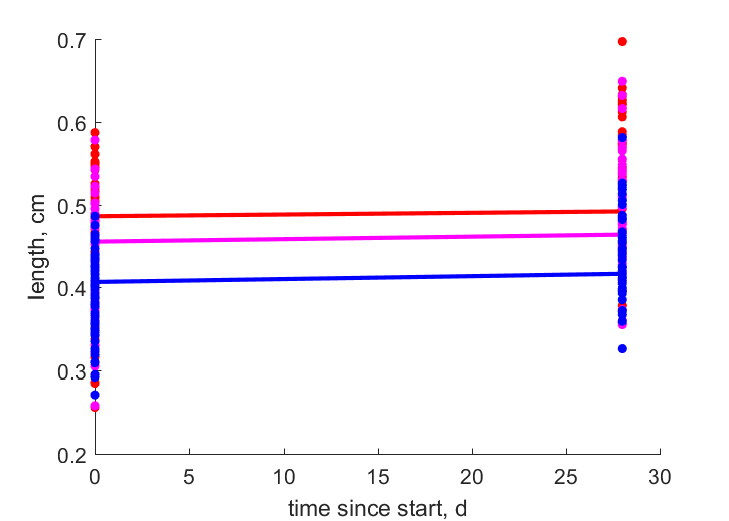
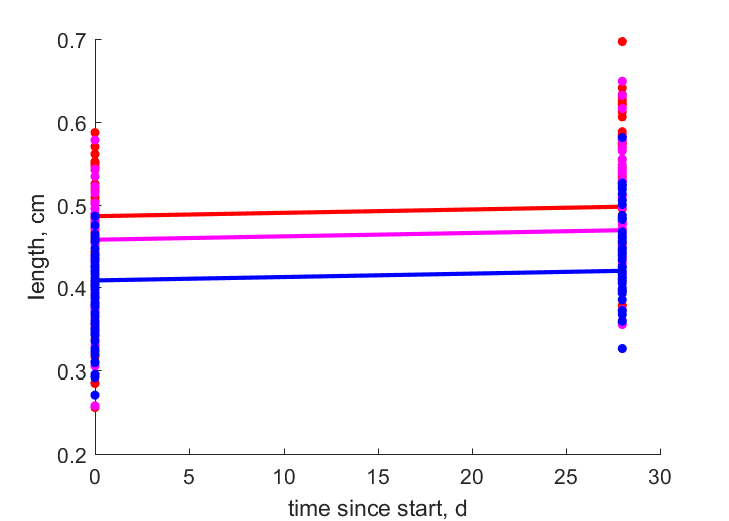
data

Changed region(s): [[0.1509, 0.3685, 0.845, 0.4914], [0.1207, 0.4914, 0.845, 0.5528]]

diff --git a/DEB_Matlab/Gammarus_pulex_res.html b/DEB_Matlab/Gammarus_pulex_res.html
@@ -44,7 +44,7 @@
   </div>
 
   <div class="par">
-  <h4>COMPLETE = 2.5; MRE =    0.321; SMAE =    0.488; SMSE =    0.490 </h4>
+  <h4>COMPLETE = 2.5; MRE =    0.275; SMAE =    0.432; SMSE =    0.413 </h4>
   </div>
 
   <p class="clear"></p>
@@ -53,41 +53,41 @@
   <h2>Data & predictions</h2>
   <TABLE id="prd">
     <TR  class="head"><TH>data</TH> <TH>prd</TH> <TH>RE</TH>  <TH>symbol</TH> <TH>units</TH> <TH>description</TH> </TR>
-    <TR><TD>33.6</TD> <TD>33.53</TD> <TD>0.001968</TD> <TD>ab</TD> <TD>d</TD> <TD>age at birth</TD></TR>
-    <TR><TD>180</TD> <TD>164.8</TD> <TD>0.08454</TD> <TD>tp</TD> <TD>d</TD> <TD>time since birth at puberty</TD></TR>
-    <TR><TD>470</TD> <TD>476.1</TD> <TD>0.01307</TD> <TD>am</TD> <TD>d</TD> <TD>life span</TD></TR>
-    <TR><TD>0.2</TD> <TD>0.1981</TD> <TD>0.009685</TD> <TD>Lb</TD> <TD>cm</TD> <TD>total length at birth</TD></TR>
-    <TR><TD>0.8</TD> <TD>0.6889</TD> <TD>0.1389</TD> <TD>Lp</TD> <TD>cm</TD> <TD>total length at puberty</TD></TR>
-    <TR><TD>1.146</TD> <TD>1.443</TD> <TD>0.2591</TD> <TD>Li</TD> <TD>cm</TD> <TD>ultimate total length</TD></TR>
-    <TR><TD>0.135</TD> <TD>0.1292</TD> <TD>0.04261</TD> <TD>Wwb</TD> <TD>mg</TD> <TD>wet weight at birth</TD></TR>
-    <TR><TD>  5</TD> <TD>5.438</TD> <TD>0.08752</TD> <TD>Wwp</TD> <TD>mg</TD> <TD>wet weight at puberty</TD></TR>
-    <TR><TD> 51</TD> <TD>49.97</TD> <TD>0.0201</TD> <TD>Wwi</TD> <TD>mg</TD> <TD>ultimate wet weight</TD></TR>
-    <TR><TD>0.7333</TD> <TD>0.7049</TD> <TD>0.03876</TD> <TD>Ri</TD> <TD>#/d</TD> <TD>maximum reprod rate</TD></TR>
-    <TR><TD colspan="2">see figure</TD> <TD>0.1653</TD> <TD>tL</TD> <TD colspan="2">time since birth <font color="blue"><i>vs.</i></font> length</TD>
-    <TR><TD colspan="2">see figure</TD> <TD>0.1003</TD> <TD>tL2</TD> <TD colspan="2">time since start <font color="blue"><i>vs.</i></font> length</TD>
-    <TR><TD colspan="2">see figure</TD> <TD>0.1045</TD> <TD>tL3</TD> <TD colspan="2">time since start <font color="blue"><i>vs.</i></font> length</TD>
-    <TR><TD colspan="2">see figure</TD> <TD>0.1189</TD> <TD>tL4</TD> <TD colspan="2">time since start <font color="blue"><i>vs.</i></font> length</TD>
-    <TR><TD colspan="2">see figure</TD> <TD>0.1093</TD> <TD>tL5</TD> <TD colspan="2">time since start <font color="blue"><i>vs.</i></font> length</TD>
-    <TR><TD colspan="2">see figure</TD> <TD>0.1243</TD> <TD>tL6</TD> <TD colspan="2">time since start <font color="blue"><i>vs.</i></font> length</TD>
-    <TR><TD colspan="2">see figure</TD> <TD>0.1463</TD> <TD>tL7</TD> <TD colspan="2">time since start <font color="blue"><i>vs.</i></font> length</TD>
-    <TR><TD colspan="2">see figure</TD> <TD>0.1001</TD> <TD>tW_f</TD> <TD colspan="2">time since birth <font color="blue"><i>vs.</i></font> wet weight</TD>
-    <TR><TD colspan="2">see figure</TD> <TD>0.8868</TD> <TD>tW_m</TD> <TD colspan="2">time since birth <font color="blue"><i>vs.</i></font> wet weight</TD>
-    <TR><TD colspan="2">see figure</TD> <TD>0.04491</TD> <TD>Tab</TD> <TD colspan="2">temperature <font color="blue"><i>vs.</i></font> age at birth</TD>
-    <TR><TD colspan="2">see figure</TD> <TD>0.1881</TD> <TD>Tab2</TD> <TD colspan="2">temperature <font color="blue"><i>vs.</i></font> age at birth</TD>
-    <TR><TD colspan="2">see figure</TD> <TD>0.1697</TD> <TD>Ttp</TD> <TD colspan="2">temperature <font color="blue"><i>vs.</i></font> time since birth at puberty</TD>
-    <TR><TD colspan="2">see figure</TD> <TD>0.917</TD> <TD>tL8</TD> <TD colspan="2">time since start <font color="blue"><i>vs.</i></font> length</TD>
-    <TR><TD colspan="2">see figure</TD> <TD>0.9234</TD> <TD>tL9</TD> <TD colspan="2">time since start <font color="blue"><i>vs.</i></font> length</TD>
-    <TR><TD colspan="2">see figure</TD> <TD>0.924</TD> <TD>tL10</TD> <TD colspan="2">time since start <font color="blue"><i>vs.</i></font> length</TD>
-    <TR><TD colspan="2">see figure</TD> <TD>0.8885</TD> <TD>tL11</TD> <TD colspan="2">time since start <font color="blue"><i>vs.</i></font> length</TD>
-    <TR><TD colspan="2">see figure</TD> <TD>0.907</TD> <TD>tL12</TD> <TD colspan="2">time since start <font color="blue"><i>vs.</i></font> length</TD>
-    <TR><TD colspan="2">see figure</TD> <TD>0.8897</TD> <TD>tL13</TD> <TD colspan="2">time since start <font color="blue"><i>vs.</i></font> length</TD>
-    <TR><TD colspan="2">see figure</TD> <TD>0.892</TD> <TD>tL14</TD> <TD colspan="2">time since start <font color="blue"><i>vs.</i></font> length</TD>
-    <TR class="psd"><TD>0.02</TD> <TD>0.01776</TD> <TD>0.112</TD> <TD>psd.v</TD> <TD>cm/d</TD> <TD>energy conductance</TD></TR>
-    <TR class="psd"><TD> 18</TD> <TD>323.4</TD> <TD>16.97</TD> <TD>psd.p_M</TD> <TD>J/d.cm^3</TD> <TD>vol-spec som maint</TD></TR>
+    <TR><TD>33.6</TD> <TD>34.12</TD> <TD>0.01546</TD> <TD>ab</TD> <TD>d</TD> <TD>age at birth</TD></TR>
+    <TR><TD>180</TD> <TD>168.9</TD> <TD>0.06141</TD> <TD>tp</TD> <TD>d</TD> <TD>time since birth at puberty</TD></TR>
+    <TR><TD>470</TD> <TD>479.4</TD> <TD>0.02003</TD> <TD>am</TD> <TD>d</TD> <TD>life span</TD></TR>
+    <TR><TD>0.2</TD> <TD>0.2063</TD> <TD>0.03143</TD> <TD>Lb</TD> <TD>cm</TD> <TD>total length at birth</TD></TR>
+    <TR><TD>0.8</TD> <TD>0.7223</TD> <TD>0.09713</TD> <TD>Lp</TD> <TD>cm</TD> <TD>total length at puberty</TD></TR>
+    <TR><TD>1.146</TD> <TD>1.507</TD> <TD>0.3152</TD> <TD>Li</TD> <TD>cm</TD> <TD>ultimate total length</TD></TR>
+    <TR><TD>0.135</TD> <TD>0.1295</TD> <TD>0.04085</TD> <TD>Wwb</TD> <TD>mg</TD> <TD>wet weight at birth</TD></TR>
+    <TR><TD>  5</TD> <TD>5.558</TD> <TD>0.1117</TD> <TD>Wwp</TD> <TD>mg</TD> <TD>wet weight at puberty</TD></TR>
+    <TR><TD> 51</TD> <TD>50.51</TD> <TD>0.009661</TD> <TD>Wwi</TD> <TD>mg</TD> <TD>ultimate wet weight</TD></TR>
+    <TR><TD>0.7333</TD> <TD>0.6935</TD> <TD>0.05428</TD> <TD>Ri</TD> <TD>#/d</TD> <TD>maximum reprod rate</TD></TR>
+    <TR><TD colspan="2">see figure</TD> <TD>0.1781</TD> <TD>tL</TD> <TD colspan="2">time since birth <font color="blue"><i>vs.</i></font> length</TD>
+    <TR><TD colspan="2">see figure</TD> <TD>0.09823</TD> <TD>tL2</TD> <TD colspan="2">time since start <font color="blue"><i>vs.</i></font> length</TD>
+    <TR><TD colspan="2">see figure</TD> <TD>0.1031</TD> <TD>tL3</TD> <TD colspan="2">time since start <font color="blue"><i>vs.</i></font> length</TD>
+    <TR><TD colspan="2">see figure</TD> <TD>0.1167</TD> <TD>tL4</TD> <TD colspan="2">time since start <font color="blue"><i>vs.</i></font> length</TD>
+    <TR><TD colspan="2">see figure</TD> <TD>0.1092</TD> <TD>tL5</TD> <TD colspan="2">time since start <font color="blue"><i>vs.</i></font> length</TD>
+    <TR><TD colspan="2">see figure</TD> <TD>0.1233</TD> <TD>tL6</TD> <TD colspan="2">time since start <font color="blue"><i>vs.</i></font> length</TD>
+    <TR><TD colspan="2">see figure</TD> <TD>0.1434</TD> <TD>tL7</TD> <TD colspan="2">time since start <font color="blue"><i>vs.</i></font> length</TD>
+    <TR><TD colspan="2">see figure</TD> <TD>0.0939</TD> <TD>tW_f</TD> <TD colspan="2">time since birth <font color="blue"><i>vs.</i></font> wet weight</TD>
+    <TR><TD colspan="2">see figure</TD> <TD>0.05959</TD> <TD>tW_m</TD> <TD colspan="2">time since birth <font color="blue"><i>vs.</i></font> wet weight</TD>
+    <TR><TD colspan="2">see figure</TD> <TD>0.04211</TD> <TD>Tab</TD> <TD colspan="2">temperature <font color="blue"><i>vs.</i></font> age at birth</TD>
+    <TR><TD colspan="2">see figure</TD> <TD>0.174</TD> <TD>Tab2</TD> <TD colspan="2">temperature <font color="blue"><i>vs.</i></font> age at birth</TD>
+    <TR><TD colspan="2">see figure</TD> <TD>0.1597</TD> <TD>Ttp</TD> <TD colspan="2">temperature <font color="blue"><i>vs.</i></font> time since birth at puberty</TD>
+    <TR><TD colspan="2">see figure</TD> <TD>0.9037</TD> <TD>tL8</TD> <TD colspan="2">time since start <font color="blue"><i>vs.</i></font> length</TD>
+    <TR><TD colspan="2">see figure</TD> <TD>0.9228</TD> <TD>tL9</TD> <TD colspan="2">time since start <font color="blue"><i>vs.</i></font> length</TD>
+    <TR><TD colspan="2">see figure</TD> <TD>0.9197</TD> <TD>tL10</TD> <TD colspan="2">time since start <font color="blue"><i>vs.</i></font> length</TD>
+    <TR><TD colspan="2">see figure</TD> <TD>0.9161</TD> <TD>tL11</TD> <TD colspan="2">time since start <font color="blue"><i>vs.</i></font> length</TD>
+    <TR><TD colspan="2">see figure</TD> <TD>0.9041</TD> <TD>tL12</TD> <TD colspan="2">time since start <font color="blue"><i>vs.</i></font> length</TD>
+    <TR><TD colspan="2">see figure</TD> <TD>0.3424</TD> <TD>tL13</TD> <TD colspan="2">time since start <font color="blue"><i>vs.</i></font> length</TD>
+    <TR><TD colspan="2">see figure</TD> <TD>0.8984</TD> <TD>tL14</TD> <TD colspan="2">time since start <font color="blue"><i>vs.</i></font> length</TD>
+    <TR class="psd"><TD>0.02</TD> <TD>0.01746</TD> <TD>0.1269</TD> <TD>psd.v</TD> <TD>cm/d</TD> <TD>energy conductance</TD></TR>
+    <TR class="psd"><TD> 18</TD> <TD>318.5</TD> <TD>16.7</TD> <TD>psd.p_M</TD> <TD>J/d.cm^3</TD> <TD>vol-spec som maint</TD></TR>
     <TR class="psd"><TD>0.002</TD> <TD>0.002</TD> <TD>  0</TD> <TD>psd.k_J</TD> <TD>1/d</TD> <TD>maturity maint rate coefficient</TD></TR>
-    <TR class="psd"><TD>0.3</TD> <TD>0.02754</TD> <TD>0.9082</TD> <TD>psd.k</TD> <TD>-</TD> <TD>maintenance ratio</TD></TR>
-    <TR class="psd"><TD>0.8</TD> <TD>0.8942</TD> <TD>0.1178</TD> <TD>psd.kap</TD> <TD>-</TD> <TD>allocation fraction to soma</TD></TR>
-    <TR class="psd"><TD>0.8</TD> <TD>0.7987</TD> <TD>0.00163</TD> <TD>psd.kap_G</TD> <TD>-</TD> <TD>growth efficiency</TD></TR>
+    <TR class="psd"><TD>0.3</TD> <TD>0.0282</TD> <TD>0.906</TD> <TD>psd.k</TD> <TD>-</TD> <TD>maintenance ratio</TD></TR>
+    <TR class="psd"><TD>0.8</TD> <TD>0.8946</TD> <TD>0.1182</TD> <TD>psd.kap</TD> <TD>-</TD> <TD>allocation fraction to soma</TD></TR>
+    <TR class="psd"><TD>0.8</TD> <TD>0.7918</TD> <TD>0.01027</TD> <TD>psd.kap_G</TD> <TD>-</TD> <TD>growth efficiency</TD></TR>
     <TR class="psd"><TD>0.95</TD> <TD>0.95</TD> <TD>  0</TD> <TD>psd.kap_R</TD> <TD>-</TD> <TD>reproduction efficiency</TD></TR>
   </TABLE>
   </div>
@@ -98,39 +98,39 @@
     <TR class="head"><TH>symbol</TH> <TH>units</TH> <TH>value</TH>  <TH>free</TH> <TH>description</TH> </TR>
     <TR><TD>T_ref</TD> <TD>K</TD> <TD>293.1</TD> <TD>0</TD> <TD>Reference temperature</TD></TR>
     <TR><TD>T_A</TD> <TD>K</TD> <TD>1e+04</TD> <TD>0</TD> <TD>Arrhenius temperature</TD></TR>
-    <TR><TD>z</TD> <TD>-</TD> <TD>0.1114</TD> <TD>1</TD> <TD>zoom factor</TD></TR>
+    <TR><TD>z</TD> <TD>-</TD> <TD>0.1117</TD> <TD>1</TD> <TD>zoom factor</TD></TR>
     <TR><TD>F_m</TD> <TD>l/d.cm^2</TD> <TD>6.5</TD> <TD>0</TD> <TD>{F_m}, max spec searching rate</TD></TR>
     <TR><TD>kap_X</TD> <TD>-</TD> <TD>0.8</TD> <TD>0</TD> <TD>digestion efficiency of food to reserve</TD></TR>
     <TR><TD>kap_P</TD> <TD>-</TD> <TD>0.1</TD> <TD>0</TD> <TD>faecation efficiency of food to faeces</TD></TR>
-    <TR><TD>v</TD> <TD>cm/d</TD> <TD>0.01776</TD> <TD>1</TD> <TD>energy conductance</TD></TR>
-    <TR><TD>kap</TD> <TD>-</TD> <TD>0.8942</TD> <TD>1</TD> <TD>allocation fraction to soma</TD></TR>
+    <TR><TD>v</TD> <TD>cm/d</TD> <TD>0.01746</TD> <TD>1</TD> <TD>energy conductance</TD></TR>
+    <TR><TD>kap</TD> <TD>-</TD> <TD>0.8946</TD> <TD>1</TD> <TD>allocation fraction to soma</TD></TR>
     <TR><TD>kap_R</TD> <TD>-</TD> <TD>0.95</TD> <TD>0</TD> <TD>reproduction efficiency</TD></TR>
-    <TR><TD>p_M</TD> <TD>J/d.cm^3</TD> <TD>323.4</TD> <TD>1</TD> <TD>[p_M], vol-spec somatic maint</TD></TR>
+    <TR><TD>p_M</TD> <TD>J/d.cm^3</TD> <TD>318.5</TD> <TD>1</TD> <TD>[p_M], vol-spec somatic maint</TD></TR>
     <TR><TD>p_T</TD> <TD>J/d.cm^2</TD> <TD>  0</TD> <TD>0</TD> <TD>{p_T}, surf-spec somatic maint</TD></TR>
     <TR><TD>k_J</TD> <TD>1/d</TD> <TD>0.002</TD> <TD>0</TD> <TD>maturity maint rate coefficient</TD></TR>
-    <TR><TD>E_G</TD> <TD>J/cm^3</TD> <TD>4453</TD> <TD>1</TD> <TD>[E_G], spec cost for structure</TD></TR>
-    <TR><TD>E_Hb</TD> <TD>J</TD> <TD>0.05441</TD> <TD>1</TD> <TD>maturity at birth</TD></TR>
-    <TR><TD>E_Hj</TD> <TD>J</TD> <TD>1.83</TD> <TD>1</TD> <TD>maturity at metam</TD></TR>
-    <TR><TD>E_Hp</TD> <TD>J</TD> <TD>3.545</TD> <TD>1</TD> <TD>maturity at puberty</TD></TR>
-    <TR><TD>h_a</TD> <TD>1/d^2</TD> <TD>3.032e-06</TD> <TD>1</TD> <TD>Weibull aging acceleration</TD></TR>
+    <TR><TD>E_G</TD> <TD>J/cm^3</TD> <TD>4492</TD> <TD>1</TD> <TD>[E_G], spec cost for structure</TD></TR>
+    <TR><TD>E_Hb</TD> <TD>J</TD> <TD>0.05463</TD> <TD>1</TD> <TD>maturity at birth</TD></TR>
+    <TR><TD>E_Hj</TD> <TD>J</TD> <TD>1.834</TD> <TD>1</TD> <TD>maturity at metam</TD></TR>
+    <TR><TD>E_Hp</TD> <TD>J</TD> <TD>3.635</TD> <TD>1</TD> <TD>maturity at puberty</TD></TR>
+    <TR><TD>h_a</TD> <TD>1/d^2</TD> <TD>3.03e-06</TD> <TD>1</TD> <TD>Weibull aging acceleration</TD></TR>
     <TR><TD>s_G</TD> <TD>-</TD> <TD>0.0001</TD> <TD>0</TD> <TD>Gompertz stress coefficient</TD></TR>
-    <TR><TD>Lw2_0</TD> <TD>cm</TD> <TD>0.5653</TD> <TD>1</TD> <TD>initial  length for tL2 data</TD></TR>
-    <TR><TD>Lw3_0</TD> <TD>cm</TD> <TD>0.6049</TD> <TD>1</TD> <TD>initial  length for tL3 data</TD></TR>
-    <TR><TD>Lw4_0</TD> <TD>cm</TD> <TD>0.6243</TD> <TD>1</TD> <TD>initial  length for tL4 data</TD></TR>
-    <TR><TD>Lw5_0</TD> <TD>cm</TD> <TD>0.4065</TD> <TD>1</TD> <TD>initial  length for tL5 data</TD></TR>
-    <TR><TD>Lw6_0</TD> <TD>cm</TD> <TD>0.4552</TD> <TD>1</TD> <TD>initial  length for tL6 data</TD></TR>
-    <TR><TD>Lw7_0</TD> <TD>cm</TD> <TD>0.4859</TD> <TD>1</TD> <TD>initial  length for tL7 data</TD></TR>
-    <TR><TD>Lw8_0</TD> <TD>cm</TD> <TD>0.6422</TD> <TD>1</TD> <TD>initial  length for tL8 data</TD></TR>
-    <TR><TD>Lw9_0</TD> <TD>cm</TD> <TD>0.5063</TD> <TD>1</TD> <TD>initial  length for tL9 data</TD></TR>
-    <TR><TD>Lw10_0</TD> <TD>cm</TD> <TD>0.5304</TD> <TD>1</TD> <TD>initial  length for tL10 data</TD></TR>
-    <TR><TD>Lw11_0</TD> <TD>cm</TD> <TD>0.3288</TD> <TD>1</TD> <TD>initial  length for tL11 data</TD></TR>
-    <TR><TD>Lw12_0</TD> <TD>cm</TD> <TD>0.3266</TD> <TD>1</TD> <TD>initial  length for tL12 data</TD></TR>
-    <TR><TD>Lw13_0</TD> <TD>cm</TD> <TD>0.4625</TD> <TD>1</TD> <TD>initial  length for tL13 data</TD></TR>
-    <TR><TD>Lw14_0</TD> <TD>cm</TD> <TD>0.4625</TD> <TD>1</TD> <TD>initial  length for tL14 data</TD></TR>
-    <TR><TD>del_M</TD> <TD>-</TD> <TD>0.2192</TD> <TD>1</TD> <TD>shape coefficient</TD></TR>
+    <TR><TD>Lw2_0</TD> <TD>cm</TD> <TD>0.5695</TD> <TD>1</TD> <TD>initial  length for tL2 data</TD></TR>
+    <TR><TD>Lw3_0</TD> <TD>cm</TD> <TD>0.6059</TD> <TD>1</TD> <TD>initial  length for tL3 data</TD></TR>
+    <TR><TD>Lw4_0</TD> <TD>cm</TD> <TD>0.6263</TD> <TD>1</TD> <TD>initial  length for tL4 data</TD></TR>
+    <TR><TD>Lw5_0</TD> <TD>cm</TD> <TD>0.4083</TD> <TD>1</TD> <TD>initial  length for tL5 data</TD></TR>
+    <TR><TD>Lw6_0</TD> <TD>cm</TD> <TD>0.4576</TD> <TD>1</TD> <TD>initial  length for tL6 data</TD></TR>
+    <TR><TD>Lw7_0</TD> <TD>cm</TD> <TD>0.486</TD> <TD>1</TD> <TD>initial  length for tL7 data</TD></TR>
+    <TR><TD>Lw8_0</TD> <TD>cm</TD> <TD>0.6448</TD> <TD>1</TD> <TD>initial  length for tL8 data</TD></TR>
+    <TR><TD>Lw9_0</TD> <TD>cm</TD> <TD>0.5095</TD> <TD>1</TD> <TD>initial  length for tL9 data</TD></TR>
+    <TR><TD>Lw10_0</TD> <TD>cm</TD> <TD>0.5396</TD> <TD>1</TD> <TD>initial  length for tL10 data</TD></TR>
+    <TR><TD>Lw11_0</TD> <TD>cm</TD> <TD>0.3306</TD> <TD>1</TD> <TD>initial  length for tL11 data</TD></TR>
+    <TR><TD>Lw12_0</TD> <TD>cm</TD> <TD>0.3261</TD> <TD>1</TD> <TD>initial  length for tL12 data</TD></TR>
+    <TR><TD>Lw13_0</TD> <TD>cm</TD> <TD>0.4669</TD> <TD>1</TD> <TD>initial  length for tL13 data</TD></TR>
+    <TR><TD>Lw14_0</TD> <TD>cm</TD> <TD>0.4651</TD> <TD>1</TD> <TD>initial  length for tL14 data</TD></TR>
+    <TR><TD>del_M</TD> <TD>-</TD> <TD>0.2105</TD> <TD>1</TD> <TD>shape coefficient</TD></TR>
     <TR><TD>f</TD> <TD>-</TD> <TD>  1</TD> <TD>0</TD> <TD>scaled functional response for 0-var data</TD></TR>
     <TR><TD>t_0</TD> <TD>d</TD> <TD>  0</TD> <TD>0</TD> <TD>time at start development</TD></TR>
-    <TR><TD>z_m</TD> <TD>-</TD> <TD>0.1197</TD> <TD>1</TD> <TD>zoom factor for male</TD></TR>
+    <TR><TD>z_m</TD> <TD>-</TD> <TD>0.1203</TD> <TD>1</TD> <TD>zoom factor for male</TD></TR>
   </TABLE>
   </div>
 

diff --git a/DEB_Matlab/mydata_Gammarus_pulex.m b/DEB_Matlab/mydata_Gammarus_pulex.m
@@ -875,7 +875,7 @@ data.Tab2 = [ ... % time since birth (d), wet weight (mg)
 	15 28;
 	20 21];
 units.Tab2   = {'C', 'd'};  label.Tab2 = {'temperature', 'age at birth'};  
-bibkey.Tab2 = 'Sutcliffe1993';
+bibkey.Tab2 = 'Sutc1993';
 
 data.Ttp = [ ... % time since birth (d), wet weight (mg)
 	5  364;
@@ -883,7 +883,7 @@ data.Ttp = [ ... % time since birth (d), wet weight (mg)
 	15 119;
 	20 77];
 units.Ttp   = {'C', 'd'};  label.Ttp = {'temperature', 'time since birth at puberty'};  
-bibkey.Ttp = 'Sutcliffe1993';
+bibkey.Ttp = 'Sutc1993';
 
 data.tL8 = [ ... % time since start (d), length (mm)
 	58	2.93;
@@ -906,11 +906,10 @@ data.tL8 = [ ... % time since start (d), length (mm)
 	244	9.06;
 	245	8.67
 ];
-data.tL8(:, 1) = data.tL8(:, 1)/10; % convert to cm
-n=size(data.tL8,1); for i=2:n; if data.tL8(i,1)<=data.tL8(i-1,1); data.tL8(i,1)=data.tL8(i-1,1)+1e-8; end;end
+data.tL8(:, 2) = data.tL8(:, 2) ./10; % convert to cm
 units.tL8   = {'d', 'cm'};  label.tL8 = {'time since start', 'length', '11 C'};  
 temp.tL8    = C2K(11);  units.temp.tL8 = 'K'; label.temp.tL8 = 'temperature';
-bibkey.tL8 = 'Huang2024';
+bibkey.tL8 = 'Huan2024';
 comment.tL8 =  ['Control group of chronic toxicity test (imidacloprid).'];
 %
 data.tL9 = [ ... % time since start (d), length (mm)
@@ -927,11 +926,10 @@ data.tL9 = [ ... % time since start (d), length (mm)
 	221	10.66;
 	473	11.25
 ];
-data.tL9(:, 1) = data.tL9(:, 1)/10; % convert to cm
-n=size(data.tL9,1); for i=2:n; if data.tL9(i,1)<=data.tL9(i-1,1); data.tL9(i,1)=data.tL9(i-1,1)+1e-8; end;end
+data.tL9(:, 2) = data.tL9(:, 2) ./10; % convert to cm
 units.tL9   = {'d', 'cm'};  label.tL9 = {'time since start', 'length', '13 C'};  
 temp.tL9    = C2K(13);  units.temp.tL9 = 'K'; label.temp.tL9 = 'temperature';
-bibkey.tL9 = 'Huang2024';
+bibkey.tL9 = 'Huan2024';
 comment.tL9 =  ['Control group of chronic toxicity test (imidacloprid).'];
 %
 data.tL10 = [ ... % time since start (d), length (mm)
@@ -956,14 +954,13 @@ data.tL10 = [ ... % time since start (d), length (mm)
 	199	8.79;
 	199	8.99
 ];
-data.tL10(:, 1) = data.tL10(:, 1)/10; % convert to cm
-n=size(data.tL10,1); for i=2:n; if data.tL10(i,1)<=data.tL10(i-1,1); data.tL10(i,1)=data.tL10(i-1,1)+1e-8; end;end
+data.tL10(:, 2) = data.tL10(:, 2) ./10; % convert to cm
 units.tL10   = {'d', 'cm'};  label.tL10 = {'time since start', 'length', '15 C'};  
 temp.tL10    = C2K(15);  units.temp.tL10 = 'K'; label.temp.tL10 = 'temperature';
-bibkey.tL10 = 'Huang2024';
+bibkey.tL10 = 'Huan2024';
 comment.tL10 =  ['Control group of chronic toxicity test (imidacloprid).'];
 %
-data.tL11 = [ ... % time since start (d), length (cm)
+data.tL11 = [ ... % time since start (d), length (mm)
 	20 1.5;
 	28 1.52;
 	22 1.93;
@@ -1030,14 +1027,13 @@ data.tL11 = [ ... % time since start (d), length (cm)
 	443 6.81;
 	444 7.34
 ];
-data.tL11(:, 1) = data.tL11(:, 1)/10; % convert to cm
-n=size(data.tL11,1); for i=2:n; if data.tL11(i,1)<=data.tL11(i-1,1); data.tL11(i,1)=data.tL11(i-1,1)+1e-8; end;end
+data.tL11(:, 2) = data.tL11(:, 2) ./10; % convert to cm
 units.tL11   = {'d', 'cm'};  label.tL11 = {'time since start', 'length', '5 C'};  
 temp.tL11    = C2K(5);  units.temp.tL11 = 'K'; label.temp.tL11 = 'temperature';
-bibkey.tL11 = 'WeltClak1980';
+bibkey.tL11 = 'WeltClar1980';
 comment.tL11 =  [''];
 %
-data.tL12 = [ ... % time since start (d), length (cm)
+data.tL12 = [ ... % time since start (d), length (mm)
 	15 1.49;
 	14 2.05;
 	24 2.0;
@@ -1144,13 +1140,13 @@ data.tL12 = [ ... % time since start (d), length (cm)
 	170 7.01;
 	187 5.99
 ];
-n=size(data.tL12,1); for i=2:n; if data.tL12(i,1)<=data.tL12(i-1,1); data.tL12(i,1)=data.tL12(i-1,1)+1e-8; end;end
+data.tL11(:, 2) = data.tL11(:, 2) ./10; % convert to cm
 units.tL12   = {'d', 'cm'};  label.tL12 = {'time since start', 'length', '10 C'};  
 temp.tL12    = C2K(10);  units.temp.tL12 = 'K'; label.temp.tL12 = 'temperature';
-bibkey.tL12 = 'WeltClak1980';
+bibkey.tL12 = 'WeltClar1980';
 comment.tL12 =  [''];
 %
-data.tL13 = [ ... % time since start (d), length (cm)
+data.tL13 = [ ... % time since start (d), length (mm)
 	17	2.11;
 	27	2.09;
 	31	2.11;
@@ -1194,14 +1190,14 @@ data.tL13 = [ ... % time since start (d), length (cm)
 	172	9.7;
 	171	7.15
 ];
-data.tL13(:, 1) = data.tL13(:, 1)/10; % convert to cm
+data.tL13(:, 2) = data.tL13(:, 2) ./10; % convert to cm
 n=size(data.tL13,1); for i=2:n; if data.tL13(i,1)<=data.tL13(i-1,1); data.tL13(i,1)=data.tL13(i-1,1)+1e-8; end;end
 units.tL13   = {'d', 'cm'};  label.tL13 = {'time since start', 'length', '15 C'};  
 temp.tL13    = C2K(15);  units.temp.tL13 = 'K'; label.temp.tL13 = 'temperature';
-bibkey.tL13 = 'WeltClak1980';
+bibkey.tL13 = 'WeltClar1980';
 comment.tL13 =  [''];
 %
-data.tL14 = [ ... % time since start (d), length (cm)
+data.tL14 = [ ... % time since start (d), length (mm)
 	12	2.11;
 	12	3.62;
 	33	2.13;
@@ -1246,11 +1242,10 @@ data.tL14 = [ ... % time since start (d), length (cm)
 	93	5.16;
 	140	7.72
 ];
-data.tL14(:, 1) = data.tL14(:, 1)/10; % convert to cm
-n=size(data.tL14,1); for i=2:n; if data.tL14(i,1)<=data.tL14(i-1,1); data.tL14(i,1)=data.tL14(i-1,1)+1e-8; end;end
+data.tL14(:, 2) = data.tL14(:, 2) ./10; % convert to cm
 units.tL14   = {'d', 'cm'};  label.tL14 = {'time since start', 'length', '20 C'};  
 temp.tL14    = C2K(20);  units.temp.tL14 = 'K'; label.temp.tL14 = 'temperature';
-bibkey.tL14 = 'WeltClak1980';
+bibkey.tL14 = 'WeltClar1980';
 comment.tL14 =  [''];
 %% set weights for all real data
 weights = setweights(data, []);
@@ -1351,6 +1346,7 @@ bibkey = 'Huan2024'; type = 'misc'; bib = [ ...
 'author = {Anna Huang}, {Paul J. Van den Brink}, {Nico W. Van den Brink}, {Jan Baas} ' ... 
 'title = {A dynamic energy budget (DEB) model to assess the sublethal effects of imidacloprid toward Gammarus pulex at different temperatures}, ' ...
 'note = {only control data used for the entries}'];
+% 
 metaData.biblist.(bibkey) = ['''@', type, '{', bibkey, ', ' bib, '}'';'];
 bibkey = 'WeltClar1980'; type = 'misc'; bib = [ ... 
 'author = {J. S. Welton}, {R. T. Clarke}, ' ... 

diff --git a/DEB_Matlab/predict_Gammarus_pulex.m b/DEB_Matlab/predict_Gammarus_pulex.m
@@ -88,40 +88,40 @@ function [prdData, info] = predict_Gammarus_pulex(par, data, auxData)
   tvel = get_tj(pars_tj, f, [], tL(:,1) * k_M * TC_tL);
   ELw = L_m * tvel(:,4)/ del_M;                              % cm, length
   % 7 deg C 
-  tvel = get_tj(pars_tj, f, del_M*Lw2_0/L_m, tL2(:,1) * k_M * TC_7);
+  tvel = get_tj(pars_tj, f, L2_0/L_m, tL2(:,1) * k_M * TC_7);
   ELw_2 = L_m * tvel(:,4)/ del_M;                              % cm, polar length
-  tvel = get_tj(pars_tj, f, del_M*Lw5_0/L_m, tL5(:,1) * k_M * TC_7);
+  tvel = get_tj(pars_tj, f, L5_0/L_m, tL5(:,1) * k_M * TC_7);
   ELw_5 = L_m * tvel(:,4)/ del_M;                              % cm, polar length
   % 11 deg C
-  tvel = get_tj(pars_tj, f, del_M*Lw3_0/L_m, tL3(:,1) * k_M * TC_11);
+  tvel = get_tj(pars_tj, f, L3_0/L_m, tL3(:,1) * k_M * TC_11);
   ELw_3 = L_m * tvel(:,4)/ del_M;                              % cm, polar length
-  tvel = get_tj(pars_tj, f, del_M*Lw6_0/L_m, tL6(:,1) * k_M * TC_11);
+  tvel = get_tj(pars_tj, f, L6_0/L_m, tL6(:,1) * k_M * TC_11);
   ELw_6 = L_m * tvel(:,4)/ del_M;                              % cm, polar length
   % 15 deg C
-  tvel = get_tj(pars_tj, f, del_M*Lw4_0/L_m, tL4(:,1) * k_M * TC_15);
+  tvel = get_tj(pars_tj, f, L4_0/L_m, tL4(:,1) * k_M * TC_15);
   ELw_4 = L_m * tvel(:,4)/ del_M;                              % cm, polar length
-  tvel = get_tj(pars_tj, f, del_M*Lw7_0/L_m, tL7(:,1) * k_M * TC_15);
+  tvel = get_tj(pars_tj, f, L7_0/L_m, tL7(:,1) * k_M * TC_15);
   ELw_7 = L_m * tvel(:,4)/ del_M;                              % cm, polar length
   % 11 deg C
-   tvel = get_tj(pars_tj, f, del_M*Lw8_0/L_m, tL8(:,1) * k_M * TC_11);
+  tvel = get_tj(pars_tj, f, L8_0/L_m, tL8(:,1) * k_M * TC_11);
   ELw_8 = L_m * tvel(:,4)/ del_M;                              % cm, polar length                              
   % 13 deg C
-   tvel = get_tj(pars_tj, f, del_M*Lw9_0/L_m, tL9(:,1) * k_M * TC_13);
+  tvel = get_tj(pars_tj, f, L9_0/L_m, tL9(:,1) * k_M * TC_13);
   ELw_9 = L_m * tvel(:,4)/ del_M;                              % cm, polar length 
   % 15 deg C
-   tvel = get_tj(pars_tj, f, del_M*Lw10_0/L_m, tL10(:,1) * k_M * TC_15);
+  tvel = get_tj(pars_tj, f, L10_0/L_m, tL10(:,1) * k_M * TC_15);
   ELw_10 = L_m * tvel(:,4)/ del_M;                              % cm, polar length 
   % 5 deg C
-   tvel = get_tj(pars_tj, f, del_M*Lw11_0/L_m, tL11(:,1) * k_M * TC_5);
+  tvel = get_tj(pars_tj, f, L11_0/L_m, tL11(:,1) * k_M * TC_5);
   ELw_11 = L_m * tvel(:,4)/ del_M;                              % cm, polar length 
   % 10 deg C
-   tvel = get_tj(pars_tj, f, del_M*Lw12_0/L_m, tL12(:,1) * k_M * TC_10);
+  tvel = get_tj(pars_tj, f, L12_0/L_m, tL12(:,1) * k_M * TC_10);
   ELw_12 = L_m * tvel(:,4)/ del_M;                              % cm, polar length 
   % 15 deg C
-   tvel = get_tj(pars_tj, f, del_M*Lw13_0/L_m, tL13(:,1) * k_M * TC_15);
+  tvel = get_tj(pars_tj, f, L13_0/L_m, tL13(:,1) * k_M * TC_15);
   ELw_13 = L_m * tvel(:,4)/ del_M;                              % cm, polar length 
   % 20 deg C
-   tvel = get_tj(pars_tj, f, del_M*Lw14_0/L_m, tL14(:,1) * k_M * TC_20);
+  tvel = get_tj(pars_tj, f, L14_0/L_m, tL14(:,1) * k_M * TC_20);
   ELw_14 = L_m * tvel(:,4)/ del_M;                              % cm, polar length 
   
   
